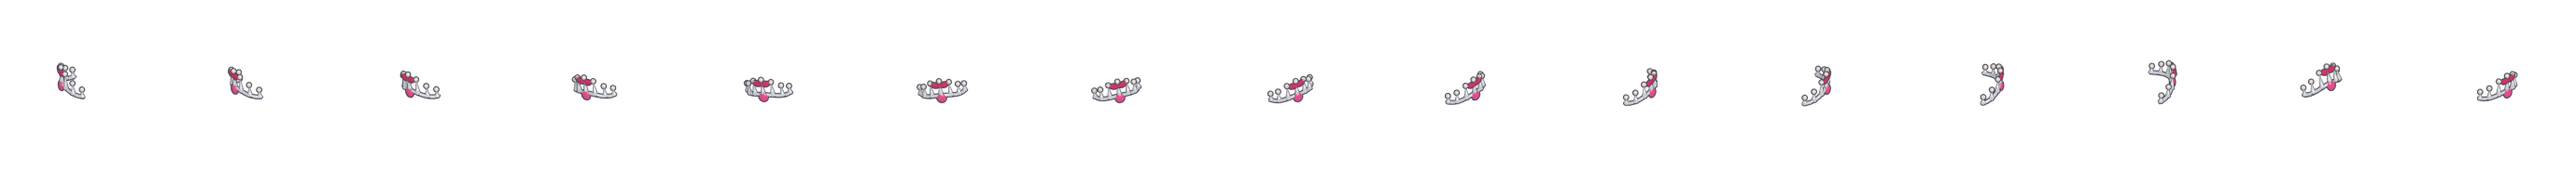
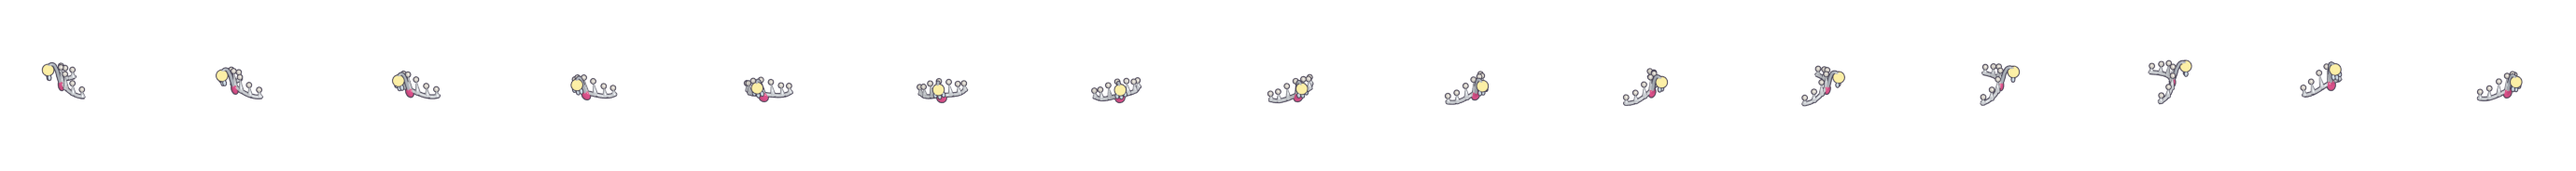
Hats: the Baron's crown has wings, the Duchess's tiara an anglerfish lure; Blender scripts run on 4.2 and 5.x
- crown: swept-back feather wings (he's a flying fish), keeps the waxed moustache
- tiara: the pink bow is gone; a glowing lure on a stalk with a little chandelier of crystals instead
- vf_kit._eevee_id(): picks BLENDER_EEVEE_NEXT (4.2 to 4.5) or BLENDER_EEVEE (5.x), so the render scripts also run on
  Blender 5.2. 4.2 stays the reference: a 4.2 re-render reproduces the shipped art pixel for pixel, 5.2 differs slightly
  (mean 1.2/255) and was slower here.

diff --git a/tools/blender/vf_hats.py b/tools/blender/vf_hats.py
@@ -194,9 +194,16 @@ def _crown():
     for a, col, s in ((-90, "#e5332f", 0.13), (-50, "#2fbf6a", 0.08), (-130, "#3e8fe0", 0.08), (90, "#e5332f", 0.1)):
         t = math.radians(a)
         parts.append(sphere(loc=(math.cos(t) * 0.83, math.sin(t) * 0.83, 0.42), scale=(s, s * 0.6, s), rot=(0, 0, a + 90), mat=toon(col, spec=0.5)))
-    tash = toon("#4a2c18")                                  # (his, from before, and he wants it back)
+    tash = toon("#4a2c18")                                  # (the Baron's waxed moustache: he never takes it off)
     for s in (1, -1):
         parts.append(tube([(s * 0.03, -0.86, 0.29), (s * 0.16, -0.86, 0.26), (s * 0.3, -0.83, 0.25), (s * 0.4, -0.8, 0.31), (s * 0.37, -0.79, 0.37)], 1.0, mat=tash, radii=[0.05, 0.06, 0.045, 0.025, 0.01], res=8))
+    feather, feather2 = toon("#f6f9fc", spec=0.35), toon("#bfdcf2", spec=0.3)
+    for s in (1, -1):                                       # (he's a flying fish: a wing out of each side, three long feathers fanned back like a bird's)
+        base = Vector((s * 0.86, 0.0, 0.56))
+        for k, (sweep, length) in enumerate(((12, 0.95), (38, 0.85), (64, 0.7))):
+            ang = math.radians(sweep if s > 0 else 180 - sweep)
+            mid = base + Vector((math.cos(ang), math.sin(ang), 0.05 * k)) * (length * 0.5)
+            parts.append(sphere(loc=tuple(mid), scale=(length * 0.5, 0.1, 0.035), rot=(0, 0, math.degrees(ang)), mat=feather if k != 1 else feather2))
     return parts
 
 
@@ -212,9 +219,12 @@ def _tiara():
         parts.append(sphere(loc=(x, y, front(a) + h + 0.03), scale=0.075, mat=pearl))
     gem = sphere(loc=(0, -0.88, 0.66), scale=(0.16, 0.09, 0.18), mat=pink)
     parts.append(gem)
-    for s in (1, -1):                                       # (hers: sit up straight)
-        parts.append(sphere(loc=(s * 0.16, -0.88, 1.24), scale=(0.15, 0.05, 0.1), rot=(0, s * -20, 0), mat=toon("#ec3f78")))
-    parts.append(sphere(loc=(0, -0.89, 1.23), scale=0.06, mat=toon("#ec3f78")))
+    # (hers: she's an anglerfish, so a lure rides on the front of the tiara, and a little chandelier hangs from it)
+    stalk, glow, crystal = toon("#c9d0da", spec=0.4), toon("#fff2a8", emit=0.9, rim=0.0, shade=1.0), toon("#e4f3ff", spec=0.6, emit=0.25)
+    parts.append(tube([(0, -0.88, 0.7), (0, -0.95, 1.02), (0, -1.02, 1.34), (0, -1.15, 1.56), (0, -1.32, 1.52)], 1.0, mat=stalk, radii=[0.055, 0.05, 0.045, 0.04, 0.035], res=8))
+    parts.append(sphere(loc=(0, -1.32, 1.36), scale=0.19, mat=glow))
+    for dx, dz in ((-0.15, 1.12), (0.0, 1.05), (0.15, 1.12)):
+        parts.append(sphere(loc=(dx, -1.32, dz), scale=(0.045, 0.045, 0.085), mat=crystal))
     return parts
 
 

diff --git a/tools/blender/vf_kit.py b/tools/blender/vf_kit.py
@@ -41,9 +41,15 @@ def clear_scene():
                 coll.remove(item)
 
 
+def _eevee_id():
+    """Blender 4.2 to 4.5 call the renderer BLENDER_EEVEE_NEXT; Blender 5.x calls it BLENDER_EEVEE again."""
+    names = [e.identifier for e in bpy.types.RenderSettings.bl_rna.properties["engine"].enum_items]
+    return "BLENDER_EEVEE_NEXT" if "BLENDER_EEVEE_NEXT" in names else "BLENDER_EEVEE"
+
+
 def setup_render(w, h, samples=16, transparent=True):
     sc = bpy.context.scene
-    sc.render.engine = "BLENDER_EEVEE_NEXT"
+    sc.render.engine = _eevee_id()
     sc.eevee.taa_render_samples = samples
     sc.render.resolution_x = w
     sc.render.resolution_y = h

diff --git a/CHANGELOG.md b/CHANGELOG.md
@@ -2,6 +2,10 @@
 
 ![fosh&fish](https://raw.githubusercontent.com/iiafosh/fosh-and-fish/master/assets/brand/cover_1280x720.png)
 
+## Coming next
+
+- **The Baron's crown and the Duchess's tiara look like theirs.** The crown has swept-back wings now (the Baron is a flying fish) and keeps his waxed moustache, and the tiara swapped its bow for a glowing anglerfish lure with a little chandelier of crystals hanging from it.
+
 ## 1.0.1 — the Most Wanted, and FishTok beside the game (11 November 2026)
 
 - **Seven different outlaws, not one fish.** The chase through the biomes is a hunt for seven fish, each with its own name, body, voice and tricks, and each caught for good. **Gerald**, the grumpy River pufferfish with the MUM tattoo, is only the first. Then **Sizzle**, a hot-headed lava catfish with whiskers on fire (Volcanic), **Captain Swordbeard**, a swordfish pirate in sailor's stripes (Ocean) and **Baron von Flap**, a flying fish in goggles (Sky), who hands over his crown. His fall brings a note from the Duchess, and the hunt goes on with **Commander Chomp**, a small and very confident space shark (Space), **Zlorp**, a three-eyed alien blobfish (Alien) and **The Duchess**, a huge anglerfish lady with pearls and a chandelier for a lure (Abyss), who gives you her tiara.
